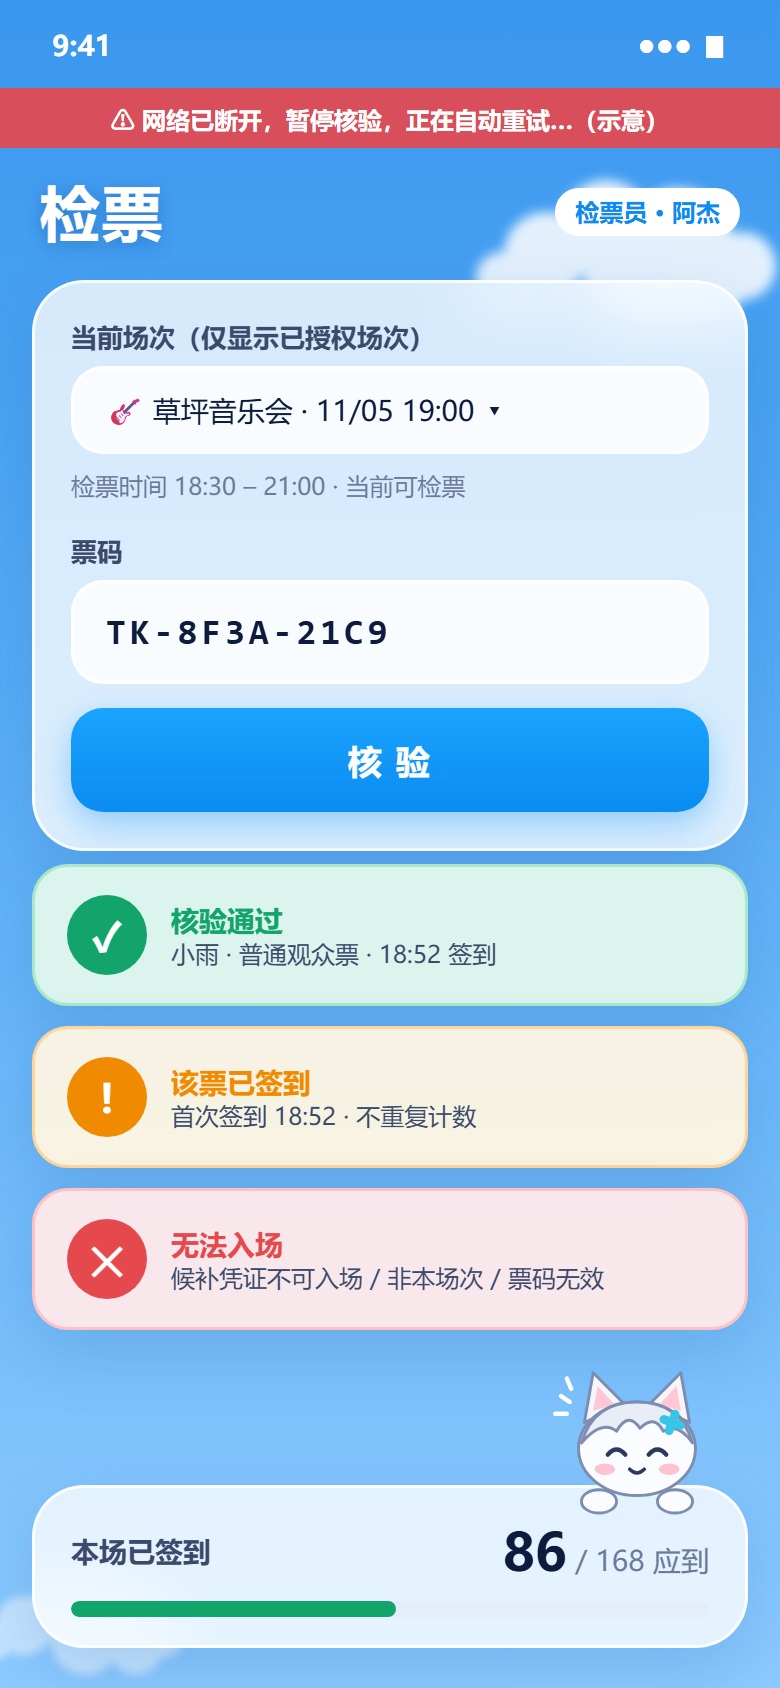
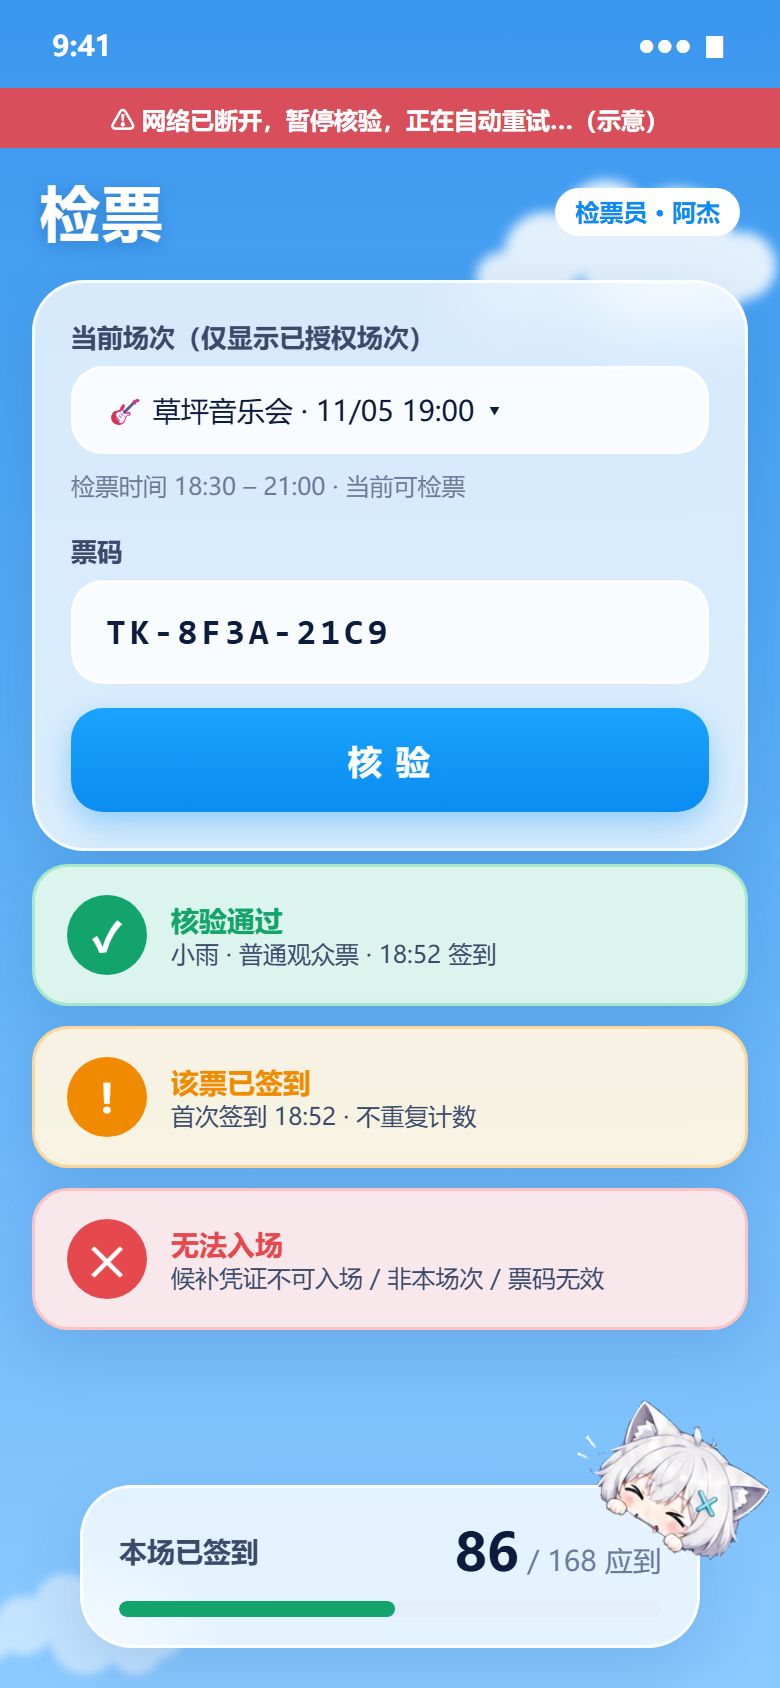
Use the original reference mascot biting card corners in UI screens
The simple cloud-cat mascot is replaced by the original mascot cut
out of the style reference. It is placed on the top-right corner of a
card as in the reference, and desktop sidebars get tip cards for it.

Changed region(s): [[0.5846, 0.8009, 0.9846, 0.9858], [0.0308, 0.8626, 0.3385, 0.9858]]

diff --git a/lab2/ui-src/style.css b/lab2/ui-src/style.css
@@ -133,7 +133,7 @@ body {
 .stat .num small { font-size: 14px; color: var(--ink-3); font-weight: 600; }
 
 /* 吉祥物 */
-.mascot { position: absolute; width: 120px; height: 104px; pointer-events: none; }
+.mascot { position: absolute; width: 120px; height: auto; pointer-events: none; }
 
 /* 手机 */
 .phone-status { position: absolute; top: 0; left: 0; right: 0; height: 44px; padding: 0 26px; display: flex; align-items: center; justify-content: space-between; font-weight: 700; font-size: 14px; color: #fff; }
@@ -147,3 +147,7 @@ body {
 .code { font-family: "Consolas", monospace; font-size: 22px; font-weight: 800; letter-spacing: 2px; color: var(--ink); }
 .dim { filter: grayscale(0.8); opacity: 0.65; }
 .mask { position: absolute; inset: 0; background: rgba(13, 40, 80, 0.35); }
+
+/* 吉祥物趴着的小提示卡 */
+.perch { position: absolute; left: 14px; right: 40px; bottom: 14px; padding: 40px 14px 12px; border-radius: 16px; background: rgba(255,255,255,0.78); border: 1.5px solid #fff; font-size: 12px; line-height: 1.7; color: var(--ink-3); }
+.perch .mascot { width: 100px; right: -38px; top: -46px; }

diff --git a/lab2/ui-src/04-tickets.html b/lab2/ui-src/04-tickets.html
@@ -44,8 +44,8 @@
 
 <!-- 退票确认弹窗 -->
 <div class="mask" style="top:520px;background:linear-gradient(180deg,rgba(13,40,80,0),rgba(13,40,80,.35) 30%)"></div>
-<div class="glass strong" style="position:absolute;left:10px;right:10px;bottom:10px;padding:24px 22px 22px;text-align:center;background:rgba(255,255,255,.96);border-radius:30px;z-index:3">
-  <img class="mascot" src="mascot.svg" style="right:18px;top:-66px;width:92px;height:80px">
+<div class="glass strong" style="position:absolute;left:40px;right:40px;bottom:16px;padding:24px 20px 22px;text-align:center;background:rgba(255,255,255,.96);border-radius:30px;z-index:3">
+  <img class="mascot" src="mascot.png" style="width:96px;right:-36px;top:-44px">
   <div style="width:44px;height:5px;border-radius:3px;background:#d3dbe8;margin:-10px auto 12px"></div>
   <div class="title h2">确定要退票吗？</div>
   <div class="small sub mt12" style="line-height:1.8">《草坪音乐会 · 秋日限定》11/05 场<br>退票后票码 TK-8F3A-21C9 立即失效，<br>名额将按顺序释放给候补的同学。</div>

diff --git a/lab2/ui-src/02-plaza.html b/lab2/ui-src/02-plaza.html
@@ -42,7 +42,6 @@
 
 <!-- 推荐 -->
 <div class="glass" style="position:absolute;left:24px;top:200px;width:330px;bottom:24px;padding:22px">
-  <img class="mascot" src="mascot.svg" style="right:20px;bottom:70px;width:110px;height:96px">
   <div class="title h2">本周值得期待 ✨</div>
   <div class="small muted mt8">按开始时间排序的已发布场次</div>
   <div class="col mt16" style="gap:14px">
@@ -62,7 +61,7 @@
       <div class="meta">20:00 · 天文台</div>
     </div>
   </div>
-  <div class="small muted" style="position:absolute;bottom:20px;left:22px;right:22px;line-height:1.7">切换分类或日期时只刷新右侧列表，<br>保留输入内容和浏览位置。</div>
+  <div class="perch"><img class="mascot" src="mascot.png">切换分类或日期时只刷新右侧列表，<br>保留输入内容和浏览位置。</div>
 </div>
 
 <!-- 列表 -->

diff --git a/lab2/ui-src/06-checkin.html b/lab2/ui-src/06-checkin.html
@@ -42,8 +42,8 @@
   </div>
 </div>
 
-<div class="glass strong" style="position:absolute;left:16px;right:16px;bottom:20px;padding:14px 18px">
-  <img class="mascot" src="mascot.svg" style="right:10px;top:-62px;width:88px;height:76px">
+<div class="glass strong" style="position:absolute;left:40px;right:40px;bottom:20px;padding:14px 18px">
+  <img class="mascot" src="mascot.png" style="width:96px;right:-36px;top:-44px">
   <div class="row between"><span class="sub" style="font-weight:600">本场已签到</span><span><b style="font-size:26px">86</b> <span class="muted">/ 168 应到</span></span></div>
   <div style="height:8px;border-radius:4px;background:#e4eefa;margin-top:8px;overflow:hidden"><i style="display:block;width:51%;height:100%;background:var(--green);border-radius:4px"></i></div>
 </div>

diff --git a/lab2/ui-src/01-login.html b/lab2/ui-src/01-login.html
@@ -14,8 +14,8 @@
   <div class="small" style="color:#fff;margin-top:6px;text-shadow:0 1px 6px rgba(0,60,140,.45)">讲座 · 工作坊 · 演出 · 社团活动</div>
 </div>
 
-<div class="glass" style="position:absolute;left:28px;right:28px;top:210px;padding:34px 26px 26px">
-  <img class="mascot" src="mascot.svg" style="right:-26px;top:-62px">
+<div class="glass" style="position:absolute;left:40px;right:40px;top:210px;padding:34px 22px 26px">
+  <img class="mascot" src="mascot.png" style="width:100px;right:-38px;top:-46px">
   <div class="title h1" style="text-align:center">欢迎回来</div>
   <div class="seg mt20"><div class="on">登录</div><div>注册</div></div>
   <div class="field mt16">👤&nbsp;请输入账号</div>

diff --git a/lab2/ui-src/03-detail.html b/lab2/ui-src/03-detail.html
@@ -75,7 +75,6 @@
 
 <!-- 右：报名面板 -->
 <div class="glass strong" style="position:absolute;left:948px;right:24px;top:100px;bottom:24px;padding:26px 26px">
-  <img class="mascot" src="mascot.svg" style="right:22px;bottom:18px;width:104px;height:90px">
   <div class="title h2">选择场次与票种</div>
 
   <div class="label mt16">场次</div>
@@ -110,5 +109,6 @@
     <div class="btn ghost block sm" style="color:var(--gray)">已报名，查看票券</div>
     <div class="btn disabled block sm">报名已截止</div>
   </div>
+  <div class="perch"><img class="mascot" src="mascot.png">候补凭证不能入场，有人退票后按顺序自动递补。</div>
 </div>
 </body></html>

diff --git a/lab2/ui-src/08-manage.html b/lab2/ui-src/08-manage.html
@@ -23,7 +23,7 @@
   <div class="item">🧑✈ 检票安排 <span class="badge">1</span></div>
   <div class="item on">📊 名单与统计</div>
   <div class="item">📝 修改申请</div>
-  <img class="mascot" src="mascot.svg" style="left:50px;bottom:22px;width:110px;height:96px">
+  <div class="perch"><img class="mascot" src="mascot.png">小提示：发布活动不会自动授予检票权限，记得分配检票员。</div>
 </div>
 
 <div class="main">

diff --git a/lab2/ui-src/07-edit.html b/lab2/ui-src/07-edit.html
@@ -24,7 +24,7 @@
   <div class="item">🧑✈ 检票安排 <span class="badge">1</span></div>
   <div class="item">📊 名单与统计</div>
   <div class="item">📝 修改申请</div>
-  <img class="mascot" src="mascot.svg" style="left:50px;bottom:22px;width:110px;height:96px">
+  <div class="perch"><img class="mascot" src="mascot.png">小提示：活动发布后只能申请修改，名额只增不减。</div>
 </div>
 
 <div class="main">

diff --git a/lab2/ui-src/09-review.html b/lab2/ui-src/09-review.html
@@ -20,7 +20,7 @@
   <div class="item">🌐 全部活动</div>
   <div class="item">📊 平台统计</div>
   <div class="item">🧾 操作日志</div>
-  <img class="mascot" src="mascot.svg" style="left:50px;bottom:22px;width:110px;height:96px">
+  <div class="perch"><img class="mascot" src="mascot.png">小提示：驳回时必须填写原因，组织者会在编辑页看到。</div>
 </div>
 
 <div class="main">

diff --git a/lab2/ui-src/10-logs.html b/lab2/ui-src/10-logs.html
@@ -22,7 +22,7 @@
   <div class="item">🌐 全部活动</div>
   <div class="item on">📊 平台统计</div>
   <div class="item">🧾 操作日志</div>
-  <img class="mascot" src="mascot.svg" style="left:50px;bottom:22px;width:110px;height:96px">
+  <div class="perch"><img class="mascot" src="mascot.png">小提示：用户清理个人记录不会删除操作日志。</div>
 </div>
 
 <div class="main">

diff --git a/lab2/ai-log.md b/lab2/ai-log.md
@@ -81,4 +81,7 @@ AI 初稿与人工修改分别提交到 Git，以便对比：
   1. 不是在 Pixso 等设计工具中绘制，组件无法在设计工具里直接拖拽修改；
   2. 示例数据是 AI 虚构的，需要逐张检查前后是否一致；
   3. 第一次画出的结果总有遮挡、截断等排版问题，必须看截图才能发现。
-- **修改后的结果**：见 `lab2/UI界面/界面1.png`～`界面10.png`。
+- **修改后的结果**：
+  - 本人认为 AI 新画的猫耳小云团吉祥物过于朴素，要求完整保留参考图中原有的吉祥物。AI 从参考图中抠出该形象，替换到全部界面中。
+  - 在桌面界面的侧栏底部增加了提示卡，让吉祥物像参考图一样趴在卡片边缘。
+  - 最终界面见 `lab2/UI界面/界面1.png`～`界面10.png`。

diff --git a/lab2/ui-spec.md b/lab2/ui-spec.md
@@ -6,7 +6,7 @@
 - 卡片是半透明毛玻璃，大圆角，白色描边；
 - 标题用深蓝粗体并带白色光晕；
 - 主按钮为蓝色渐变；
-- 吉祥物是一只趴在卡片边缘的猫耳小云团。
+- 吉祥物沿用参考图中原有的猫耳白发小人（`ui-src/mascot.png`，从参考图中抠出），趴在卡片边缘。
 
 制作方式：界面源文件放在 `lab2/ui-src/`（HTML + CSS），用 `render.sh` 调用无界面 Edge 截图，导出到 `lab2/UI界面/`。桌面画布为 1440×1024；手机画布为 390×844，按 2 倍分辨率导出。
 
